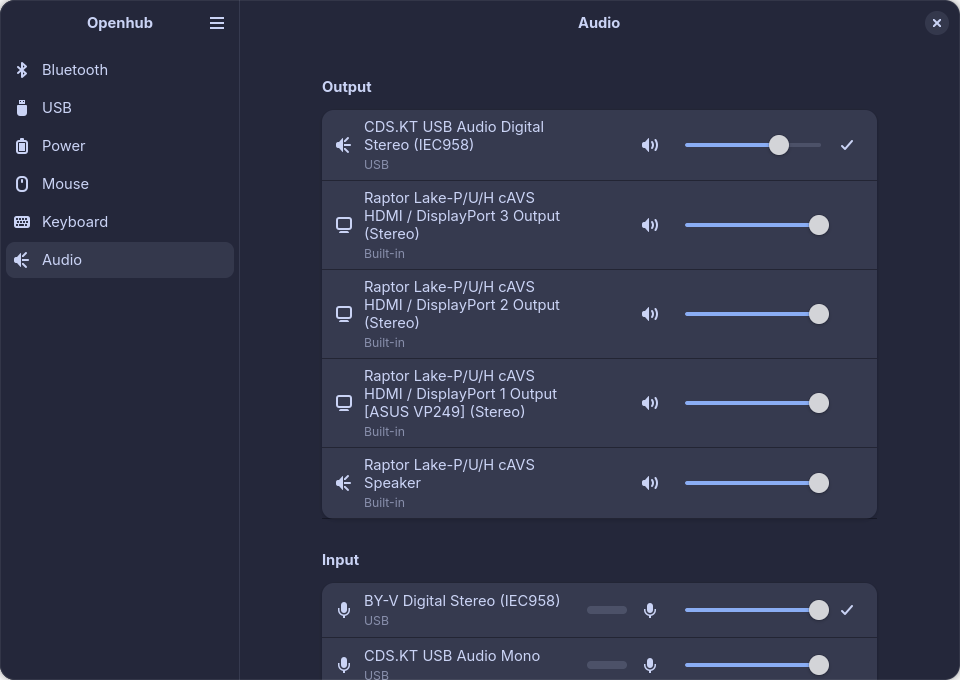
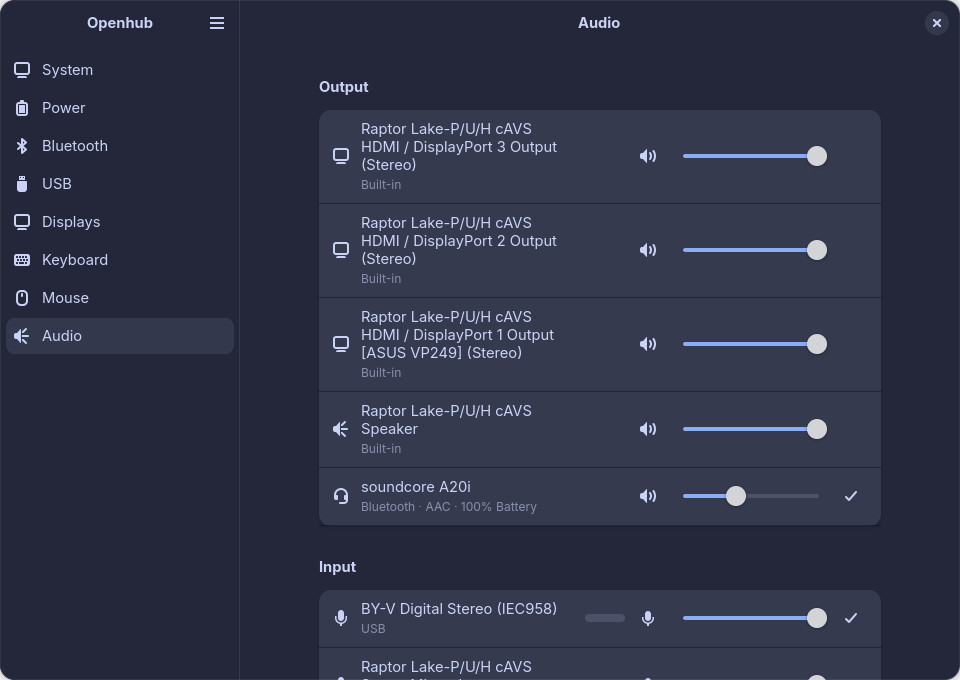
Prepare v1.0.0
The Flatpak gains hostnamed, switcheroo-control and fwupd on the system
bus, and GNOME Shell and GNOME Software on the session bus. With GNOME
Shell allowed, its BrightnessChanged signal reaches the Flatpak, so the
once-a-second backlight poll from v0.5 is gone.

Version 1.0.0, with release notes, the System page as the main
screenshot, every screenshot retaken with the new sidebar, and the
README's System section, access notes and modules.

diff --git a/src/ui/display/page.rs b/src/ui/display/page.rs
@@ -183,26 +183,6 @@ impl DisplayPage {
             ),
         );
         self.imp().shell_subscription.replace(Some(shell));
-        // Flatpak only passes GNOME Shell's signal to apps that may talk to
-        // all of GNOME Shell, so there the panel's level is read instead,
-        // every second while the page is on screen.
-        if std::path::Path::new("/.flatpak-info").exists() {
-            glib::timeout_add_seconds_local(
-                1,
-                glib::clone!(
-                    #[weak(rename_to = page)]
-                    self,
-                    #[upgrade_or]
-                    glib::ControlFlow::Break,
-                    move || {
-                        if page.is_mapped() {
-                            page.follow_kernel_brightness();
-                        }
-                        glib::ControlFlow::Continue
-                    }
-                ),
-            );
-        }
         self.imp().bus.replace(Some(bus.clone()));
         self.reload(&bus).await;
     }

diff --git a/README.md b/README.md
@@ -2,29 +2,30 @@
 
 # Openhub
 
-A lightweight GTK app that manages all connected devices, built with GTK4 + libadwaita in Rust. It covers Bluetooth, USB, power, mice, keyboards, audio and displays.
+A lightweight GTK app that manages all connected devices, built with GTK4 + libadwaita in Rust. It covers your computer and its firmware, Bluetooth, USB, power, mice, keyboards, audio and displays.
 
-![The Displays page](data/screenshots/displays.png)
+![The System page](data/screenshots/system.png)
 
 ## Status
 
-[v0.5.0](https://github.com/CJTS15/openhub/releases/tag/v0.5.0) is the latest release.
+[v1.0.0](https://github.com/CJTS15/openhub/releases/tag/v1.0.0) is the latest release.
 
+- **System** (new in v1.0.0): the page Openhub opens on. Connected Devices shows a card for each page with what's connected there, one count of every device, and low batteries; About lists the model, processor, memory, graphics, disk, firmware, OS, desktop and kernel, with Copy Details; Device Firmware lists firmware fwupd can update, with release notes and a link to GNOME Software; and rows open GNOME Settings' device name, region, date and time, users and remote access pages.
 - **Bluetooth** (since v0.1.0): turn the adapter on and off; connect and disconnect devices, with connected ones listed first; see battery levels; scan for and pair new devices through Openhub's own pairing agent; trust, block or forget devices.
 - **USB** (since v0.2.0): a live list of USB devices, grouped under the hubs they're connected through, with built-in devices hidden behind a toggle; a details dialog for each device; safe eject for USB drives.
 - **Power** (since v0.3.0): the laptop's battery and charging state, and every wireless device's battery, updated live; battery details with health and charge cycles; the "Preserve Battery Health" charge limit where supported; receiver batteries on the USB page.
 - **Mouse** (since v0.4.0): Logitech mice (DPI, SmartShift, scroll direction, restored when the mouse reconnects), Razer mice (DPI and polling rate, stored on the mouse), and other brands through ratbagd (DPI steps, report rate, buttons).
 - **Keyboard** (since v0.4.0): lighting and key remapping for VIA keyboards on their cable, from the keyboard's VIA definition; a Keyboard Shortcuts button for every keyboard.
 - **Audio** (since v0.4.0): default output and input, volume, mute, Bluetooth codec and a live microphone level; a 10-band equalizer per output with presets and AutoEQ import, which keeps working when Openhub is closed (PipeWire 1.4 or later).
-- **Displays** (new in v0.5.0): arrange displays and choose Join, Mirror or a single display; resolution, refresh rate, variable refresh rate, scale and orientation, applied through GNOME's "Keep these display settings?" check; brightness of the built-in screen and of external monitors over DDC/CI; Night Light; each display's color profile and HDR. On desktops other than GNOME the page lists the displays read-only.
+- **Displays** (since v0.5.0): arrange displays and choose Join, Mirror or a single display; resolution, refresh rate, variable refresh rate, scale and orientation, applied through GNOME's "Keep these display settings?" check; brightness of the built-in screen and of external monitors over DDC/CI; Night Light; each display's color profile and HDR. On desktops other than GNOME the page lists the displays read-only.
 
 ## Installing
 
-Download `openhub-0.5.0-x86_64.flatpak` from the [v0.5.0 release](https://github.com/CJTS15/openhub/releases/tag/v0.5.0). It needs the GNOME 50 runtime from Flathub:
+Download `openhub-1.0.0-x86_64.flatpak` from the [v1.0.0 release](https://github.com/CJTS15/openhub/releases/tag/v1.0.0). It needs the GNOME 50 runtime from Flathub:
 
 ```sh
 flatpak install --user flathub org.gnome.Platform//50
-flatpak install --user openhub-0.5.0-x86_64.flatpak
+flatpak install --user openhub-1.0.0-x86_64.flatpak
 flatpak run io.github.cjts15.Openhub
 ```
 
@@ -46,6 +47,8 @@ The VIA and Razer rules list the devices tested so far, each limited to the one 
 - The DDC rule lets every program you run open the I2C buses of display adapters only (the same match as ddcutil's rule), so Openhub can set an external monitor's brightness over DDC/CI. The laptop's other I2C buses, such as the touchpad's, stay root-only.
 - The Flatpak asks for `--device=all`, because Flatpak has no narrower permission for `/dev/hidraw*`. Openhub only opens the HID devices it recognises.
 - The Flatpak can change any GNOME setting through dconf. Openhub uses this only for the Night Light keys (`org.gnome.settings-daemon.plugins.color`).
+- The Flatpak can talk to GNOME Shell, for its version on the System page and to follow the brightness keys. GNOME Shell's interface is broad; Openhub reads `ShellVersion` and listens for `BrightnessChanged` only.
+- The System page reads systemd-hostnamed, switcheroo-control, UDisks2 and fwupd without changing anything, and copies nothing that identifies the machine (no serial numbers or UUIDs).
 - Imported color profiles are copied into `~/.local/share/icc`, where GNOME registers them with colord.
 - The equalizer writes `~/.config/wireplumber/wireplumber.conf.d/openhub-equalizer.conf`, which WirePlumber loads at login. Turning every equalizer off removes it.
 - Openhub's Bluetooth pairing agent asks before confirming a pairing code, and refuses requests to authorize a device or service that it didn't start.
@@ -103,6 +106,9 @@ For quick iteration, `cargo run` also works.
 - `src/via/`: VIA keyboards: the raw HID protocol, definition files and keycode names
 - `src/battery.rs`: batteries the kernel or Razer report but UPower doesn't
 - `data/udev/`, `data/systemd/`: the hidraw access rules and the mouse restore unit
+- `src/sysinfo/`: About this computer, from hostnamed, switcheroo-control, UDisks2 and GNOME Shell, with `/sys` and `/proc` fallbacks
+- `src/fwupd/`: device firmware and updates from fwupd
+- `src/ui/system/`: the System page and the firmware dialog
 - `src/display/`: Mutter's display configuration (state, the draft layout Apply sends, backlights), EDID parsing, and colour profiles through colord
 - `src/ddc/`: external monitor brightness over DDC/CI
 - `src/ui/display/`: the Displays page, the arrangement canvas and the details dialog
